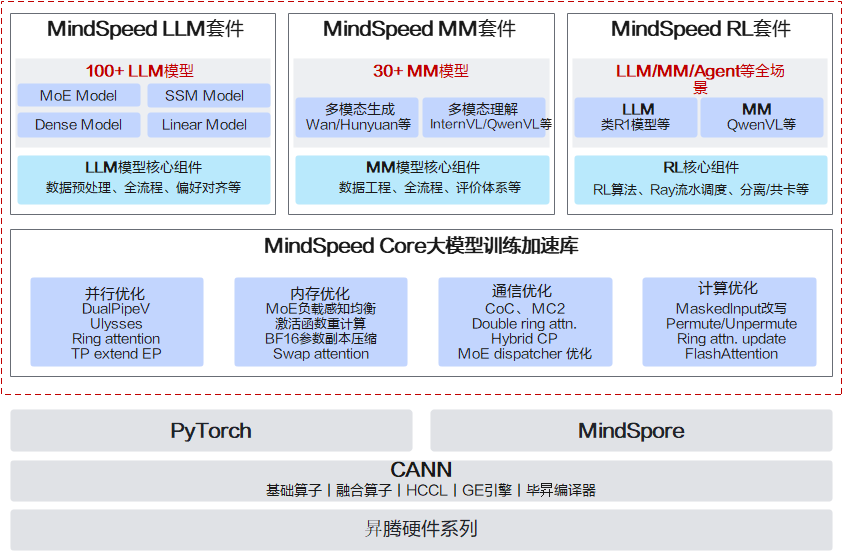
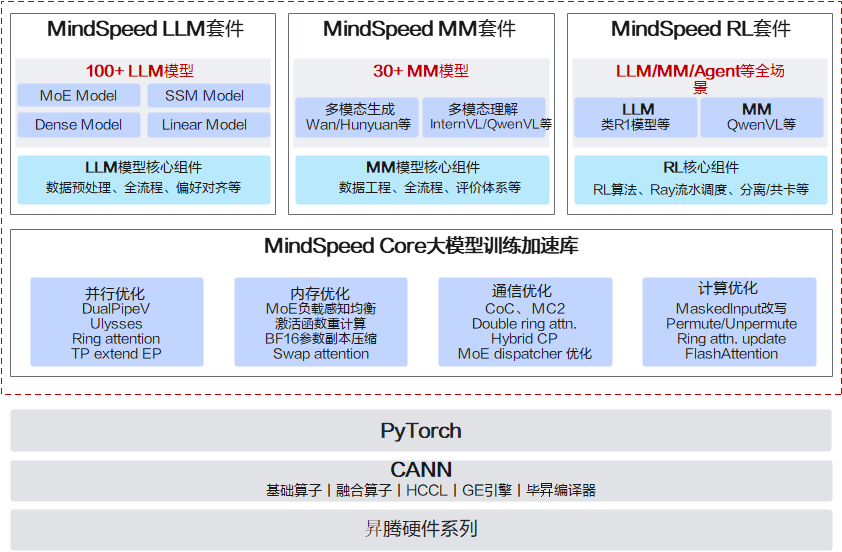
docs：modify document
# message auto-generated for no-merge-commit merge:
!3659 merge 26.1.0_core_r0.12.1 into 26.1.0_core_r0.12.1

docs：modify document

Created-by: gh_55
Commit-by: w60124201
Merged-by: ascend-robot
Description: ## What this PR does / why we need it?

根据AIDD修改，架构图去掉MindSpore相关内容。

## Does this PR introduce any user-facing change?

Please describe whether the PR will result in any user-facing usage changes. If there is related documentation, please specify its path.

## How was this patch tested?

Please explain how to verify the correctness and effectiveness of this feature, as well as its usage constraints and limitations.

See merge request: Ascend/MindSpeed!3659

Changed region(s): [[0.4323, 0.7391, 0.5558, 0.8315], [0.6793, 0.7699, 0.8337, 0.8007], [0.1853, 0.7699, 0.3088, 0.8007]]

diff --git a/docs/zh/user-guide/feature_development.md b/docs/zh/user-guide/feature_development.md
@@ -11,7 +11,7 @@ MindSpeed Core采用**插件化**的特性管理架构，核心组件：
 | `MindSpeedFeature` | 特性基类，定义生命周期钩子 |
 | `MindSpeedPatchesManager` | 统一管理patch注册与生效 |
 
-开发者只需继承 `MindSpeedFeature`，覆写相关方法，即可添加新特性，无需修改核心框架。
+开发者只需继承`MindSpeedFeature`，覆写相关方法，即可添加新特性，无需修改核心框架。
 
 ## 开发流程
 
@@ -33,8 +33,8 @@ MindSpeed Core采用**插件化**的特性管理架构，核心组件：
 
     >[!NOTE]
     >
-    >- `feature_name` 使用 `async-log-allreduce`，与命令行参数 `--async-log-allreduce` 对应
-    >- `optimization_level=2` 表示这是高阶优化特性
+    >- `feature_name`使用`async-log-allreduce`，与命令行参数`--async-log-allreduce`对应。
+    >- `optimization_level=2`表示这是高阶优化特性。
 
 2. 注册命令行参数
 
@@ -49,9 +49,8 @@ MindSpeed Core采用**插件化**的特性管理架构，核心组件：
 
     >[!NOTE]
     >
-    >- 使用 `add_argument_group` 组织相关参数
-    >- `action='store_true'` 表示这是一个开关型参数
-    >- 提供清晰的帮助文档说明用途
+    >- 使用`add_argument_group`组织相关参数。
+    >- `action='store_true'`表示这是一个开关型参数。
 
 3. 注册patch
 
@@ -68,18 +67,18 @@ MindSpeed Core采用**插件化**的特性管理架构，核心组件：
 
     >[!NOTE]
     >
-    >- 在 `register_patches` 函数内部进行 import，而非文件顶部导入。这样可以避免循环依赖：如果在文件顶部导入  `mindspeed.core.data_parallel.async_log_allreduce`，而该模块又间接导入 `features_manager`，会导致初始化失败。 只有当 `is_need_apply(args)` 返回True时，才会执行到这段代码
-    >- 注册 patch 将 `megatron.training.training.train_step` 替换为自定义实现
+    >- 在`register_patches`函数内部进行 import，而非文件顶部导入。这样可以避免循环依赖：如果在文件顶部导入`mindspeed.core.data_parallel.async_log_allreduce`，而该模块又间接导入 `features_manager`，会导致初始化失败。只有当`is_need_apply(args)`返回True时，才会执行到这段代码。
+    >- 注册patch将`megatron.training.training.train_step`替换为自定义实现。
 
 ## 开发实践指南
 
 ### 开发实践建议
 
-1. **特性命名规范**：使用小写字母，以`-`分隔，确保与命令行参数风格一致
-2. **默认使能控制**：非原生适配特性禁止默认使能，避免影响基础功能稳定性
-3. **参数校验完整性**：充分利用`pre_validate_args`、`validate_args`、`post_validate_args`三个阶段确保参数合法性
-4. **兼容性检查**：使用`incompatible_check`和`dependency_check`确保特性组合的正确性
-5. **patch幂等性**：确保patch注册不会相互冲突，必要时使用`force_patch`参数
+- 特性命名规范：使用小写字母，以`-`分隔，确保与命令行参数风格一致。
+- 默认启用控制：非原生适配特性禁止默认启用，避免影响基础功能稳定性。
+- 参数校验完整性：充分利用`pre_validate_args`、`validate_args`、`post_validate_args`三个阶段确保参数合法性。
+- 兼容性检查：使用`incompatible_check`和`dependency_check`确保特性组合的正确性。
+- patch幂等性：确保patch注册不会相互冲突，必要时使用`force_patch`参数。
 
 ### 创建新特性的Checklist
 
@@ -106,11 +105,11 @@ MindSpeed Core采用**插件化**的特性管理架构，核心组件：
 
 ### 常见问题
 
-- 使用pre_validate_args/post_validate_args的场景
+- 使用pre_validate_args/post_validate_args的场景。
 
-    当需要绕过第三方库的参数校验时使用。例如Megatron的校验太严格，但你需要在特定场景下放宽限制。
+    当需要绕过第三方库的参数校验时使用。例如Megatron的校验太严格，但需要在特定场景下放宽限制。
 
-- 装饰器模式和替换模式如何选择
+- 装饰器模式和替换模式如何选择？
 
     | 场景 | 推荐模式 |
     | ------ | ------ |
@@ -119,11 +118,11 @@ MindSpeed Core采用**插件化**的特性管理架构，核心组件：
 
 - 排查patch是否生效
 
-    1. 检查 `is_need_apply(args)` 是否返回True
-    2. 确认 `register_patches` 被调用
-    3. 确认 `apply_patches()` 在正确时机被调用
-    4. 检查patch目标路径是否正确
+    1. 检查`is_need_apply(args)`是否返回True。
+    2. 确认`register_patches`被调用。
+    3. 确认`apply_patches()`在正确时机被调用。
+    4. 检查patch目标路径是否正确。
 
 ### API参考
 
-详见[API参考](./API.md)
+详见[API参考](./API.md)。

diff --git a/docs/zh/features/megatron_moe/megatron-moe-gmm.md b/docs/zh/features/megatron_moe/megatron-moe-gmm.md
@@ -42,7 +42,7 @@
 > [!NOTE]
 >
 > - megatron原生不支持`--moe-grouped-gemm`在开启`--bf16`的场景下使用。
-> - 通过`--moe-grouped-gemm`参数使能Grouped GEMM计算时会调用npu_gmm融合算子
+> - 通过`--moe-grouped-gemm`参数开启Grouped GEMM计算时会调用npu_gmm融合算子。
 
 **算子输入输出**
 
@@ -51,15 +51,15 @@ y = npu_gmm(x, weight, bias=None, group_list=None, group_type=0, gemm_fusion=Fal
 ```
 
 - 输入：
-    - x：必选输入，为tensor，数据类型float16, bfloat16, float32
-    - weight：必选输入，为tensor，数据类型float16, bfloat16, float32
-    - bias：可选输入，为tensor，数据类型float16, float32, 默认值为None。训练场景下，仅支持bias为None
-    - group_list：可选输入，数据类型list[int64], tensor，默认值为None。
+    - x：必选输入，为tensor，数据类型float16，bfloat16，float32。
+    - weight：必选输入，为tensor，数据类型float16，bfloat16，float32。
+    - bias：可选输入，为tensor，数据类型float16，float32，默认值为None。训练场景下，仅支持bias为None。
+    - group_list：可选输入，数据类型list[int64]，tensor，默认值为None。
     - group_type：可选输入，数据类型int64，代表需要分组的轴，如矩阵乘为C[m,n]=A[m,k]xB[k,n]，则group_type取值-1：不分组，0：m轴分组，1：n轴分组，2：k轴分组，默认值为0。
-    - gemm_fusion:可选输入，为bool，数据类型True，False，用于反向累加梯度的时候使能GMM+ADD融合算子，默认值为False。
-    - original_weight:可选输入，为tensor，数据类型float16, bfloat16, float32，用于获取view之前的weight的main_grad用于GMM+ADD中梯度累加功能，默认值为None。
+    - gemm_fusion:可选输入，为bool，数据类型True，False，用于反向累加梯度的时候开启GMM+ADD融合算子，默认值为False。
+    - original_weight:可选输入，为tensor，数据类型float16，bfloat16，float32，用于获取view之前的weight的main_grad用于GMM+ADD中梯度累加功能，默认值为None。
 - 输出：
-    - y：必选输出，数据类型float16, bfloat16, float32
+    - y：必选输出，数据类型float16, bfloat16, float32。
 
 该算子在非量化场景仅支持以下输入输出类型的组合，若将参数指定为其他不支持类型可能会导致算子报错，影响训练效率：
 

diff --git a/docs/zh/FAQ.md b/docs/zh/FAQ.md
@@ -55,8 +55,8 @@ RuntimeError: stack expects each tensor to be equal size, but got [8193] at entr
 
 - 推荐方案：
 
-  - 将相关变量修改为 int64 数据类型，具体可查看[fix data helps overflow bug](https://github.com/NVIDIA/Megatron-LM/pull/598)。
-    可以在 Megatron-LM 目录下，运行`mindspeed -P`命令，自动完成修改。
+  - 将相关变量修改为int64数据类型，具体可查看[fix data helpers overflow bug](https://github.com/NVIDIA/Megatron-LM/pull/598)。
+    可以在Megatron-LM目录下，运行`mindspeed -P`命令，自动完成修改。
 
   - 删除`megatron/core/datasets/`目录下`helpers.cpython-xx-xxx-linux-gnu.so`文件。
 
@@ -96,11 +96,9 @@ Using ~/.cache/torch_extensions/py38_cpu as PyTorch extensions root...
 
 ```bash
 2024-09-18 11:14:247 iteration 427/ 5000  consumed samples: 6832 elapsed time per iteration (
-ms): 209.8 | Learning rate: 1.229919E-06 | global batch size:   16 | Lm loss: 8.567080E+00 | loss scale: 1.0 | gr
-ad norm: 35.518 | number of skipped iterations:   О | number of nan iterations: 0 
+ms): 209.8 | Learning rate: 1.229919E-06 | global batch size:   16 | Lm loss: 8.567080E+00 | loss scale: 1.0 | grad norm: 35.518 | number of skipped iterations:   О | number of nan iterations: 0 
 [2024-09-18 11:14:25] iteration 428/   5000] consumed samples: 6848 elapsed time per iteration (
-ms): 210.5 | Learning rate: 1.229826E-06 | global batch size: _ 16 | lm loss: 7.180392E+00 | loss scale: 1.0 | gr
-ad norm: 36.838 ] number of skipped iterations:   О | number of nan iterations:
+ms): 210.5 | Learning rate: 1.229826E-06 | global batch size: _ 16 | lm loss: 7.180392E+00 | loss scale: 1.0 | grad norm: 36.838 ] number of skipped iterations:   О | number of nan iterations:
 Traceback (most recent call last):
 File "pretrain_gpt.py", line 247, in <module>
 pretrain(

diff --git a/docs/zh/features/tensor-parallel-2d.md b/docs/zh/features/tensor-parallel-2d.md
@@ -72,10 +72,10 @@ $$\hat{x}_i = x'_i \cdot \gamma \quad \forall i \in \{1, 2, \dots, H\}$$
 
 其他优化参数，用于辅助高维张量并行特性进行通信隐藏，需要开启tp-2d时生效：
 
-- `--enable-overlap-ag-with-matmul`: 在linear层forward计算时，开启all-gather通信和matmul进行隐藏，以便加速
-- `--enable-overlap-matmul-with-rs`: 在linear层forward计算时，开启matmul计算和reduce-scatter通信进行隐藏，以便加速
-- `--coc-fused-kernel`: 在linear层forward计算时，开启计算通信融合算子，将matmul计算与all-gather、reduce-scatter都进行算子级融合，实现进一步加速（该特性不与前两个特性兼容，依赖ATB加速库）
-- `--enable-backward-overlap-ag-with-matmul`: 在linear层backward计算梯度时，开启all-gather通信和matmul进行隐藏，以便加速（该特性依赖ATB加速库）
+- `--enable-overlap-ag-with-matmul`: 在linear层forward计算时，开启all-gather通信和matmul进行隐藏，以便加速。
+- `--enable-overlap-matmul-with-rs`: 在linear层forward计算时，开启matmul计算和reduce-scatter通信进行隐藏，以便加速。
+- `--coc-fused-kernel`: 在linear层forward计算时，开启计算通信融合算子，将matmul计算与all-gather、reduce-scatter都进行算子级融合，实现进一步加速（该特性不与前两个特性兼容，依赖ATB加速库）。
+- `--enable-backward-overlap-ag-with-matmul`: 在linear层backward计算梯度时，开启all-gather通信和matmul进行隐藏，以便加速（该特性依赖ATB加速库）。
 
 上述3个forward计算优化参数`--enable-overlap-ag-with-matmul`、`--enable-overlap-matmul-with-rs`、`--coc-fused-kernel`只能同时开启1个。
 

diff --git a/docs/zh/introduction.md b/docs/zh/introduction.md
@@ -2,15 +2,15 @@
 
 ## 概述
 
-MindSpeed Core是针对华为昇腾设备的大模型加速库。大模型训练是一种非常复杂的过程，涉及到许多技术和挑战，其中大模型训练需要大量的显存资源是一个难题，对计算卡提出了不小的挑战。 为了在单个计算卡显存资源不足时，可以通过多张计算卡进行计算，业界出现了类似 Megatron、DeepSpeed 等第三方大模型加速库，对模型、输入数据等进行切分并分配到不同的计算卡上，最后再通过集合通信对结果进行汇总。昇腾提供 MindSpeed Core 加速库，使客户大模型业务能快速迁移至昇腾设备，并且支持昇腾专有算法，确保开箱可用。
+MindSpeed Core是针对华为昇腾设备的大模型加速库。大模型训练是一种非常复杂的过程，涉及到许多技术和挑战，其中大模型训练需要大量的显存资源是一个难题，对计算卡提出了不小的挑战。当单个计算卡显存资源不足时，可以通过多张计算卡进行计算，业界出现了类似 Megatron、DeepSpeed等第三方大模型加速库，对模型、输入数据等进行切分并分配到不同的计算卡上，最后再通过集合通信对结果进行汇总。昇腾提供MindSpeed Core加速库，使客户大模型业务能快速迁移至昇腾设备，并且支持昇腾专有算法，确保开箱可用。
 
 ## MindSpeed Core架构
 
-MindSpeed Core 整体架构如下图，整体分为三个层次：
+MindSpeed Core整体架构如下图，整体分为三个层次：
 
 - 加速特性：
 在并行、内存、通信、计算等多个维度提供丰富多样的加速特性；
-特性内聚解耦设计，可快捷一键使能，也可方便地进行二次开发。
+特性内聚解耦设计，可快捷一键启用，也可方便地进行二次开发。
 
 - 工具/功能特性：
 强大易用的工具特性加速模型端到端调优过程，大幅提升开发效率；
@@ -26,4 +26,4 @@ MindSpeed Core 整体架构如下图，整体分为三个层次：
 
 ## 功能特性
 
-MindSpeed 特性由七大模块组成，分别为：Megatron特性支持、并行策略特性、内存优化特性、亲和计算特性、通信优化特性、关键场景特性以及多模态特性。
+MindSpeed特性由七大模块组成，分别为：Megatron特性支持、并行策略特性、内存优化特性、亲和计算特性、通信优化特性、关键场景特性以及多模态特性。

diff --git a/docs/zh/features/megatron_moe/megatron-moe-alltoall-dispatcher.md b/docs/zh/features/megatron_moe/megatron-moe-alltoall-dispatcher.md
@@ -4,7 +4,7 @@
 
 **repeat_interleave并行**
 
-在 Alltoall dispatcher分支中，调用了repeat_interleave算子，此算子只使用了单个block dim在单个下发流上进行串行计算，且耗时较长，算子的输出也是在alltoall、permute和alltoallv之后才用到。
+在Alltoall dispatcher分支中，调用了repeat_interleave算子，此算子只使用了单个block dim在单个下发流上进行串行计算，且耗时较长，算子的输出也是在alltoall、permute和alltoallv之后才用到。
 
 **计算通信并行**
 
@@ -14,7 +14,7 @@
 
 **repeat_interleave并行**
 
-通过新建一条下发流，将repeat_interleave 算子调用分到新的流上，在block dim资源充足的情况下，可进行两个算子的并行计算，节省耗时。
+通过新建一条下发流，将repeat_interleave算子调用分到新的流上，在block dim资源充足的情况下，可进行两个算子的并行计算，节省耗时。
 
 **计算通信并行**
 
@@ -22,7 +22,7 @@
 
 ## 使用场景
 
-在使用 mcore MoE 的场景下，开启了`--moe-token-dispatcher-type alltoall`。
+在使用mcore MoE的场景下，开启了`--moe-token-dispatcher-type alltoall`。
 
 ## 使用方法
 

diff --git a/docs/zh/features/megatron_moe/megatron-moe-tp-extend-ep.md b/docs/zh/features/megatron_moe/megatron-moe-tp-extend-ep.md
@@ -15,9 +15,9 @@
 ## 使用方法
 
 - 开启特性：添加`--moe-tp-extend-ep`启用该功能。
-- 必选配套参数：必须同时确保开启以下两个参数。
+- 必选配套参数：必须同时确保开启以下两个参数：
     - `--moe-permutation-async-comm`
-    - `--moe-grouped-gemm`，（注意：目前仅支持Grouped MLP）
+    - `--moe-grouped-gemm`（注意：目前仅支持Grouped MLP）
 - 配置约束：需要确保`--num-experts`能被`--tensor-model-parallel-size`与`--expert-model-parallel-size`的乘积整除。
 
 > [!NOTE]

diff --git a/docs/zh/features/swap-optimizer.md b/docs/zh/features/swap-optimizer.md
@@ -23,8 +23,8 @@
 
 ## 使用方法
 
-`--swap-optimizer`：开启swap optimizer特性。
-`--swap-optimizer-times`：默认值为16，用于设置step更新阶段进行swap的次数，越小并行的越多，可减少性能劣化，但会提高显存峰值。
+- `--swap-optimizer`：开启swap optimizer特性。
+- `--swap-optimizer-times`：默认值为16，用于设置step更新阶段进行swap的次数，越小并行的越多，可减少性能劣化，但会提高显存峰值。
 
 推荐配置
 

diff --git a/docs/zh/features/virtual-optimizer.md b/docs/zh/features/virtual-optimizer.md
@@ -39,8 +39,8 @@ state['exp_avg_sq'] = torch_npu.empty_with_swapped_memory(p.size(), device=p.dev
 当需要对优化器部分的显存进行Swap时，有以下几种情况：
 
 - 希望Swap掉所有的一二阶动量，则可以采用`--virtual-optimizer all`指定。
-- 希望每一个PP Stage Swap同样大小的显存（如我希望每个Stage swap掉2GB的显存），则可以采用`--virtual-optimizer 2.0`指定。
-- 希望每一个PP Stage Swap不同的显存（假设有四个PP Stage，我分别希望Swap掉 6 5 4 3GB的显存），则可以采用`--virtual-optimizer 6 5 4 3`指定。
+- 希望每一个PP Stage Swap同样大小的显存（希望每个Stage swap掉2GB的显存），则可以采用`--virtual-optimizer 2.0`指定。
+- 希望每一个PP Stage Swap不同的显存（假设有四个PP Stage，分别希望Swap掉 6、5、4、3GB的显存），则可以采用`--virtual-optimizer 6 5 4 3`指定。
 
 推荐配置
 

diff --git a/docs/zh/features/eod-reset.md b/docs/zh/features/eod-reset.md
@@ -17,7 +17,7 @@
 2. 参数设置
     - 打开`--reset-attention-mask`选项。
     - 使用`--reset-position-ids`选项，来代表位置编码是否reset。
-    - --attention-mask-type可以指定为causal或者general，两者计算结果等价。causal为加速实现，general为基线方案
+    - --attention-mask-type可以指定为causal或者general，两者计算结果等价。causal为加速实现，general为基线方案。
 
 > [!NOTE]
 >